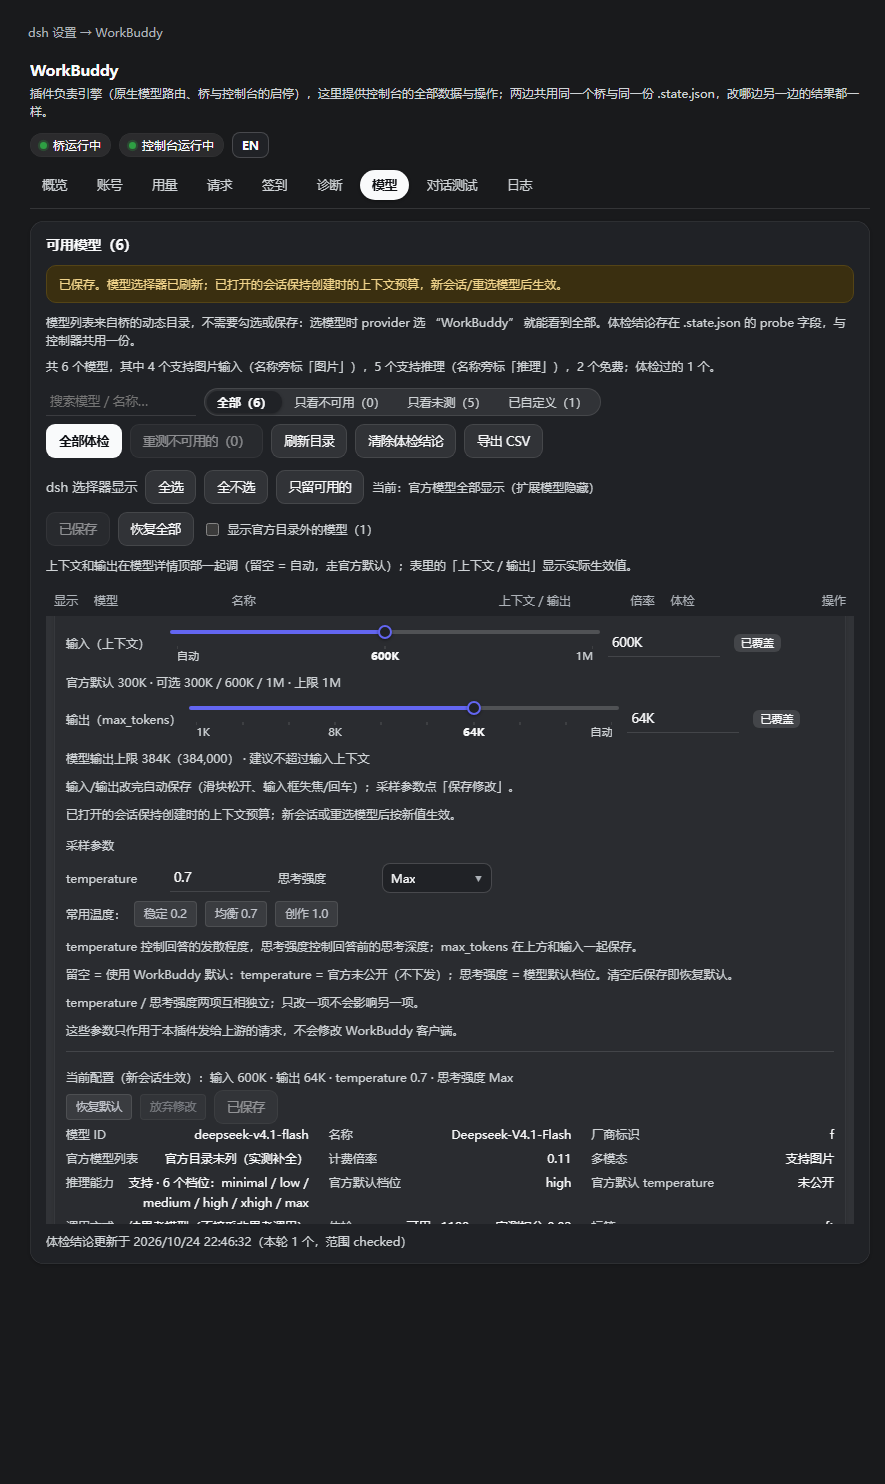
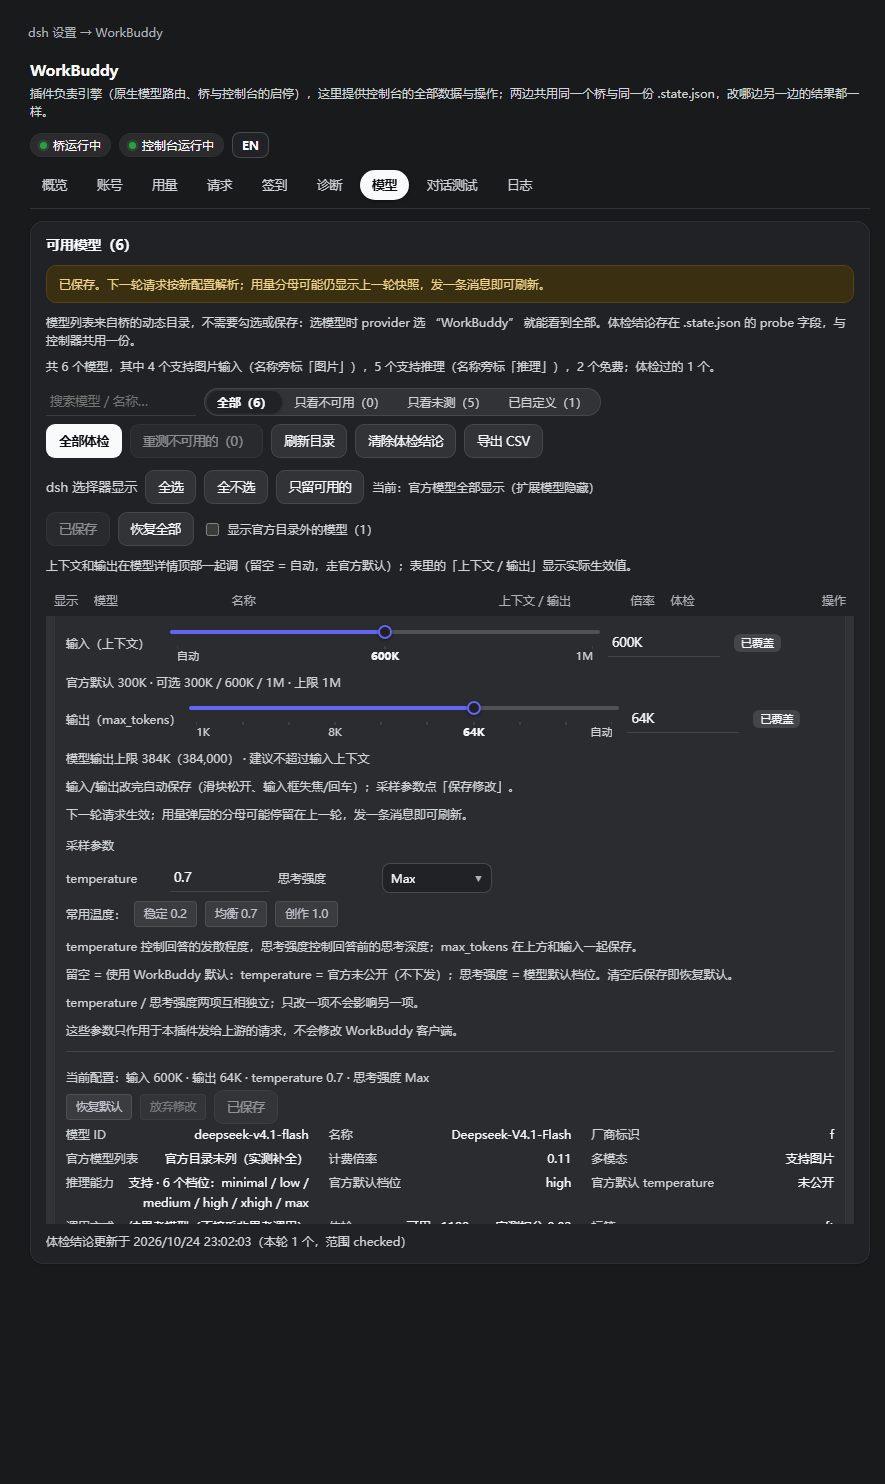
fix(panel): 修正上下文预算生效时机文案

diff --git a/dsh-plugin/lib/client.js b/dsh-plugin/lib/client.js
@@ -1189,11 +1189,11 @@ body.dark .wb-root,
       'temperature 需要是 0–2 之间的数字': 'temperature must be a number between 0 and 2',
       '保存修改': 'Save changes',
       '当前生效：': 'Currently effective: ',
-      '当前配置（新会话生效）：': 'Current configuration (applies to new sessions): ',
-      '已打开的会话保持创建时的上下文预算；新会话或重选模型后按新值生效。':
-        'Open sessions keep the context budget captured when they were created; new sessions or reselecting the model use the new value.',
-      '已保存。模型选择器已刷新；已打开的会话保持创建时的上下文预算，新会话/重选模型后生效。':
-        'Saved. The model picker has been refreshed; open sessions keep the context budget captured at creation — new sessions or reselecting the model use the new value.',
+      '当前配置：': 'Current configuration: ',
+      '下一轮请求生效；用量弹层的分母可能停留在上一轮，发一条消息即可刷新。':
+        'Takes effect on the next request; the usage meter may still show the previous request until you send a message.',
+      '已保存。下一轮请求按新配置解析；用量分母可能仍显示上一轮快照，发一条消息即可刷新。':
+        'Saved. The next request uses the new configuration; the usage meter may still show the previous request until you send a message.',
       '未保存的修改：': 'Unsaved changes: ',
       '有未保存的修改 —— 点「保存修改」后才会用于本插件发出的请求。':
         'You have unsaved changes — click Save changes to apply them to requests from this plugin.',
@@ -4781,7 +4781,7 @@ body.dark .wb-root,
         }
         setMessage(res.data.applied === false
           ? '已保存。此 dsh 版本不支持即时刷新 —— 重启一次 dsh 后生效。'
-          : '已保存。模型选择器已刷新；已打开的会话保持创建时的上下文预算，新会话/重选模型后生效。');
+          : '已保存。下一轮请求按新配置解析；用量分母可能仍显示上一轮快照，发一条消息即可刷新。');
         reload();
         prefsApi.reload();
         return true;
@@ -5368,7 +5368,7 @@ body.dark .wb-root,
                             h('p', { className: 'wb-note' },
                               '输入/输出改完自动保存（滑块松开、输入框失焦/回车）；采样参数点「保存修改」。'),
                             h('p', { className: 'wb-note' },
-                              '已打开的会话保持创建时的上下文预算；新会话或重选模型后按新值生效。')),
+                              '下一轮请求生效；用量弹层的分母可能停留在上一轮，发一条消息即可刷新。')),
                           h('div', { className: 'wb-token-section', style: { marginTop: '12px' } },
                             h('div', { className: 'wb-token-head' },
                               h('span', { className: 'wb-label' }, '采样参数')),
@@ -5424,7 +5424,7 @@ body.dark .wb-root,
                               ? h('p', { className: 'wb-note wb-token-problem' }, '请先修正标红的输入。')
                               : state.dirty
                                 ? h('p', { className: 'wb-note' }, t('未保存的修改：'), changeBits.join(' · '))
-                                : h('p', { className: 'wb-note' }, t('当前配置（新会话生效）：'), currentBits.join(' · ')),
+                                : h('p', { className: 'wb-note' }, t('当前配置：'), currentBits.join(' · ')),
                             h('div', { className: 'wb-actions', style: { marginTop: '2px' } },
                               h(Btn, {
                                 sm: true,

diff --git a/dsh-plugin/README.md b/dsh-plugin/README.md
@@ -29,7 +29,8 @@ dsh 的模型选择器会自动刷新，不需要再重启一次。
   点「保存修改」。官方默认组合（如输入 300K + 输出上限 384K）不会被判错；
   共享窗口只提示不阻断，模型上限/下限仍硬校验。覆盖后会标「自定义」，可用
   「已自定义（N）」筛选；偏好写入 `DSH_HOME`，旧插件目录文件启动时自动迁移。
-  **已打开的会话保持创建时的上下文预算**，新会话/重选模型后按新值生效。
+  **保存后下一轮请求按新预算解析**（同一会话也生效）；用量弹层的分母可能还
+  停留在上一轮，发一条消息即可刷新；切换模型后按该模型自己的预算解析。
 - **顶部积分胶囊**：显示 `积分 N`；悬停看套餐余量 / 今日已用 / 最近一次调用；
   套餐余量 ≤30% 变黄、≤10% 变红；点击强制刷新。读取失败时保留上次余额并标红；
   **已有对话但未登录 / 凭据异常时，这里直接变成登录入口**（不用回设置页）。
@@ -511,8 +512,9 @@ npm run panel:check                    # 上面两个一起跑
 - 客户端半边与宿主端的改动都需要**重启一次 dsh** 才生效（模块被 ESM 缓存、
   客户端引导行只在应用启动时组装）；未重启时设置页自己会提示。首次启动会把
   旧插件目录的 `.model-prefs.json` 迁移到 `<DSH_HOME>/workbuddy-model-prefs.json`。
-- **已打开的会话保持创建时的上下文预算**：在模型详情里把输入/输出改掉后，
-  当前聊天仍按创建时的预算计量；新会话或重选模型后按新值生效。
+- **下一轮请求生效**：在模型详情里把输入/输出改掉后，下一次请求按新预算解析
+  （同一会话也生效）；用量弹层的分母可能还停留在上一轮，发一条消息即可刷新。
+  切换模型后，下一轮请求使用该模型自己的预算。
 - 设置页与控制台网页是同一后端的两个前端：轮询有间隔（状态 8 秒、请求 5 秒、
   账号 30 秒、签到 5 分钟），所以"另一边刚改完"最多延迟一个轮询周期才显示 ——
   数据本身是同一份，不存在两份各说各话。
@@ -531,7 +533,7 @@ npm run panel:check                    # 上面两个一起跑
 |---|---|---|
 | 打开模型详情就红字“输出（自动 384K）必须小于输入上下文 300K”，保存按钮禁用 | 把“输入/输出共享窗口”做成了硬校验，而模型官方默认本身就是“输入 300K + 输出上限 384K” | 默认态不报错；只有手动改动后才给黄色提示且不阻断保存；服务端也移除硬拒绝。回归：`panel-render.mjs` 初始态干净 + 共享窗口提示不阻断 |
 | 改完上下文/输出，切页重进又回默认 | 统一保存按钮在窄面板里落到折叠线以下，用户没点保存就切页；草稿随组件卸载丢失 | Token 两行自动保存（滑块松开、输入框失焦/回车）；采样参数仍点「保存修改」，面板上写明。回归：`panel-render.mjs` 失焦/松开各断言 1 次 POST |
-| 面板设 600K，当前聊天仍显示 1M | dsh 在**会话创建时**把 `contextWindow` 固定进会话；面板改预算只影响新解析，不会回写已打开会话 | 面板状态改为「当前配置（新会话生效）」、保存提示明确「已打开会话保持创建时预算」；回归：`panel-render.mjs` 文案断言 |
+| 面板设 600K，当前聊天仍显示 1M | dsh 的 `request/context` 是**每轮 `prepareCall()` 解析**、仅变化时追加；用量弹层的分母是上一轮请求的快照，保存后没发新消息就不会刷新 | 面板状态改「当前配置」、保存提示「下一轮请求生效，发一条消息刷新」；回归：`panel-render.mjs` 文案断言 |
 | `131072` 显示成 `128K`，再保存变成 `128000` | 输入框用友好 K/M 格式回填，丢精度 | 输入框只显示**可精确回读**的写法（整千/整百万才用 K/M）；滑块刻度仍友好。回归：`panel-render.mjs` 连续两次保存 `131072` |
 | 重装/清 pnpm 缓存后 1M 偏好静默回 300K | `.model-prefs.json` 写在插件安装目录（node_modules 内），会被包管理器抹掉 | 默认写 `<DSH_HOME>/workbuddy-model-prefs.json`；旧文件读取时自动迁移。回归：`model-prefs.test.mjs` 迁移用例（1M 保留） |
 | 表格输出列显示官方上限，覆盖成 32K 仍显示 128K | 列取的是目录上限，不是每模型生效的默认输出 | 表格显示生效值 + 「自定义」标记 + 「已自定义（N）」筛选。回归：`panel-render.mjs` 行值/筛选 |

diff --git a/README.md b/README.md
@@ -502,9 +502,9 @@ dsh plugin --profile desktop add <本仓库路径>/dsh-plugin
   两行都是「滑块粗选 + 数值框精确」，支持 `128K` / `1M` / `131072`，留空 = 自动。
 - **改完自动保存**：滑块松开、输入框失焦或回车即落盘；temperature / 思考强度
   仍点「保存修改」一起提交。
-- **当前已打开的会话不改写**：dsh 在会话创建时固定上下文预算；面板保存后，
-  已打开的聊天仍按创建时的预算计量，**新会话或重选模型后按新值生效**。
-  面板状态会明确写「当前配置（新会话生效）」。
+- **下一轮请求生效**：保存后下一次请求会按新预算解析（同一会话也生效）；
+  用量弹层的分母可能还停留在上一轮，发一条消息即可刷新；切换模型后按
+  该模型自己的预算解析。面板状态显示「当前配置」。
 - **不会被官方默认误判**：模型自己的「默认输入 300K + 输出上限 384K」是合法
   组合；输入/输出共享窗口只做非阻断提示，模型上限/下限仍硬校验。
 - **精确回填**：`131072` 不会显示成 `128K` 后再存成 `128000`；输出上限同时
@@ -601,7 +601,7 @@ copy .env.example .env
 | `DASHBOARD_PORT` | `8792` | 控制台端口 |
 | `WORKBUDDY_APP_EXECUTABLE` | 自动探测 | WorkBuddy 客户端路径 |
 | `WORKBUDDY_AUTH_FILE` | 自动定位 | 登录文件；多账号时务必显式指定 |
-| `WORKBUDDY_CONTEXT_WINDOW` | 官方默认（多为 `300000`） | dsh 的上下文容量按模型解析。**推荐在插件「模型 → 详情 → 上下文窗口（Token）」里按模型单独调**（输入/输出改完自动保存；模型选择器即时刷新，已打开的会话保持创建时预算，新会话/重选模型生效）；本变量作为面板「自动」时的桥端默认值，也供不使用面板的其它 OpenAI 客户端使用，可钉到 `600000` / `1000000`（不超过模型上限） |
+| `WORKBUDDY_CONTEXT_WINDOW` | 官方默认（多为 `300000`） | dsh 的上下文容量按模型解析。**推荐在插件「模型 → 详情 → 上下文窗口（Token）」里按模型单独调**（输入/输出改完自动保存；保存后下一轮请求按新预算解析，用量分母可能显示上一轮，发一条消息刷新；切换模型用该模型自己的预算）；本变量作为面板「自动」时的桥端默认值，也供不使用面板的其它 OpenAI 客户端使用，可钉到 `600000` / `1000000`（不超过模型上限） |
 | `WORKBUDDY_ANTHROPIC_MODEL` | `glm-5.3` | Claude Code 的模型名映射到哪个真实模型（也可直接填上游真实 id） |
 | `WORKBUDDY_ANTHROPIC_FAST_MODEL` | `glm-5.3-flash` | Claude Code 后台任务（标题生成、文件摘要）用的小快模型 |
 

diff --git a/docs/CONFIGURATION.md b/docs/CONFIGURATION.md
@@ -60,7 +60,7 @@ copy .env.example .env
 | `WORKBUDDY_APP_EXECUTABLE` | 自动探测 | 客户端可执行文件。探测顺序见下 |
 | `WORKBUDDY_AUTH_FILE` | 自动定位 | 登录文件绝对路径。**多账号时务必显式指定** |
 | `WORKBUDDY_AUTH_DIR` | 平台默认 | 登录文件所在目录，仅在目录被移动时需要 |
-| `WORKBUDDY_CONTEXT_WINDOW` | 官方默认（多为 300000） | dsh 的上下文容量按模型解析。**推荐在插件「模型 → 详情 → 上下文窗口（Token）」里按模型单独调**（输入/输出改完自动保存；模型选择器即时刷新，已打开的会话保持创建时预算，新会话/重选模型生效；留空 = 自动，优先于本变量）；本变量作为面板选择「自动」时的桥端默认值，也用于不使用面板的其它 OpenAI 客户端。可钉到 `600000` / `1000000`（不超过模型上限）；不设置则用 `/v3/config` 的 `contextWindow.defaultLength` |
+| `WORKBUDDY_CONTEXT_WINDOW` | 官方默认（多为 300000） | dsh 的上下文容量按模型解析。**推荐在插件「模型 → 详情 → 上下文窗口（Token）」里按模型单独调**（输入/输出改完自动保存；保存后下一轮请求按新预算解析，用量分母可能显示上一轮，发一条消息刷新；切换模型用该模型自己的预算；留空 = 自动，优先于本变量）；本变量作为面板选择「自动」时的桥端默认值，也用于不使用面板的其它 OpenAI 客户端。可钉到 `600000` / `1000000`（不超过模型上限）；不设置则用 `/v3/config` 的 `contextWindow.defaultLength` |
 
 ### 插件登录（第二条凭据来源）
 

diff --git a/CHANGELOG.md b/CHANGELOG.md
@@ -21,10 +21,12 @@
 
 ### Fixed
 
-- **上下文预算的“生效范围”说清楚**：dsh 在会话创建时把 `contextWindow` 固定进
-  会话；面板把输入改成 600K 后，**已打开的聊天仍按创建时的 1M 计量**，新会话
-  或重选模型后才按 600K。面板状态改为「当前配置（新会话生效）」，保存提示
-  不再声称“已保存并即时生效”，并明确“已打开会话保持创建时预算”。
+- **上下文预算的生效时机说清楚**：dsh 的 `request/context` 是**每轮
+  `prepareCall()` 解析**、仅 contextWindow/模型变化时追加；面板保存 600K 后，
+  **下一轮请求**就按 600K 解析（同一会话也生效）。用量弹层的分母是上一轮请求
+  的快照，保存后没发新消息时仍显示 1M 是正常的，发一条消息即可刷新；切换模型
+  后按该模型自己的预算解析。面板状态改为「当前配置」，保存提示不再声称
+  “已保存并即时生效”，而是明确“下一轮请求生效 / 发消息刷新”。
 
 ## [1.10.0] - 2026-10-24
 
